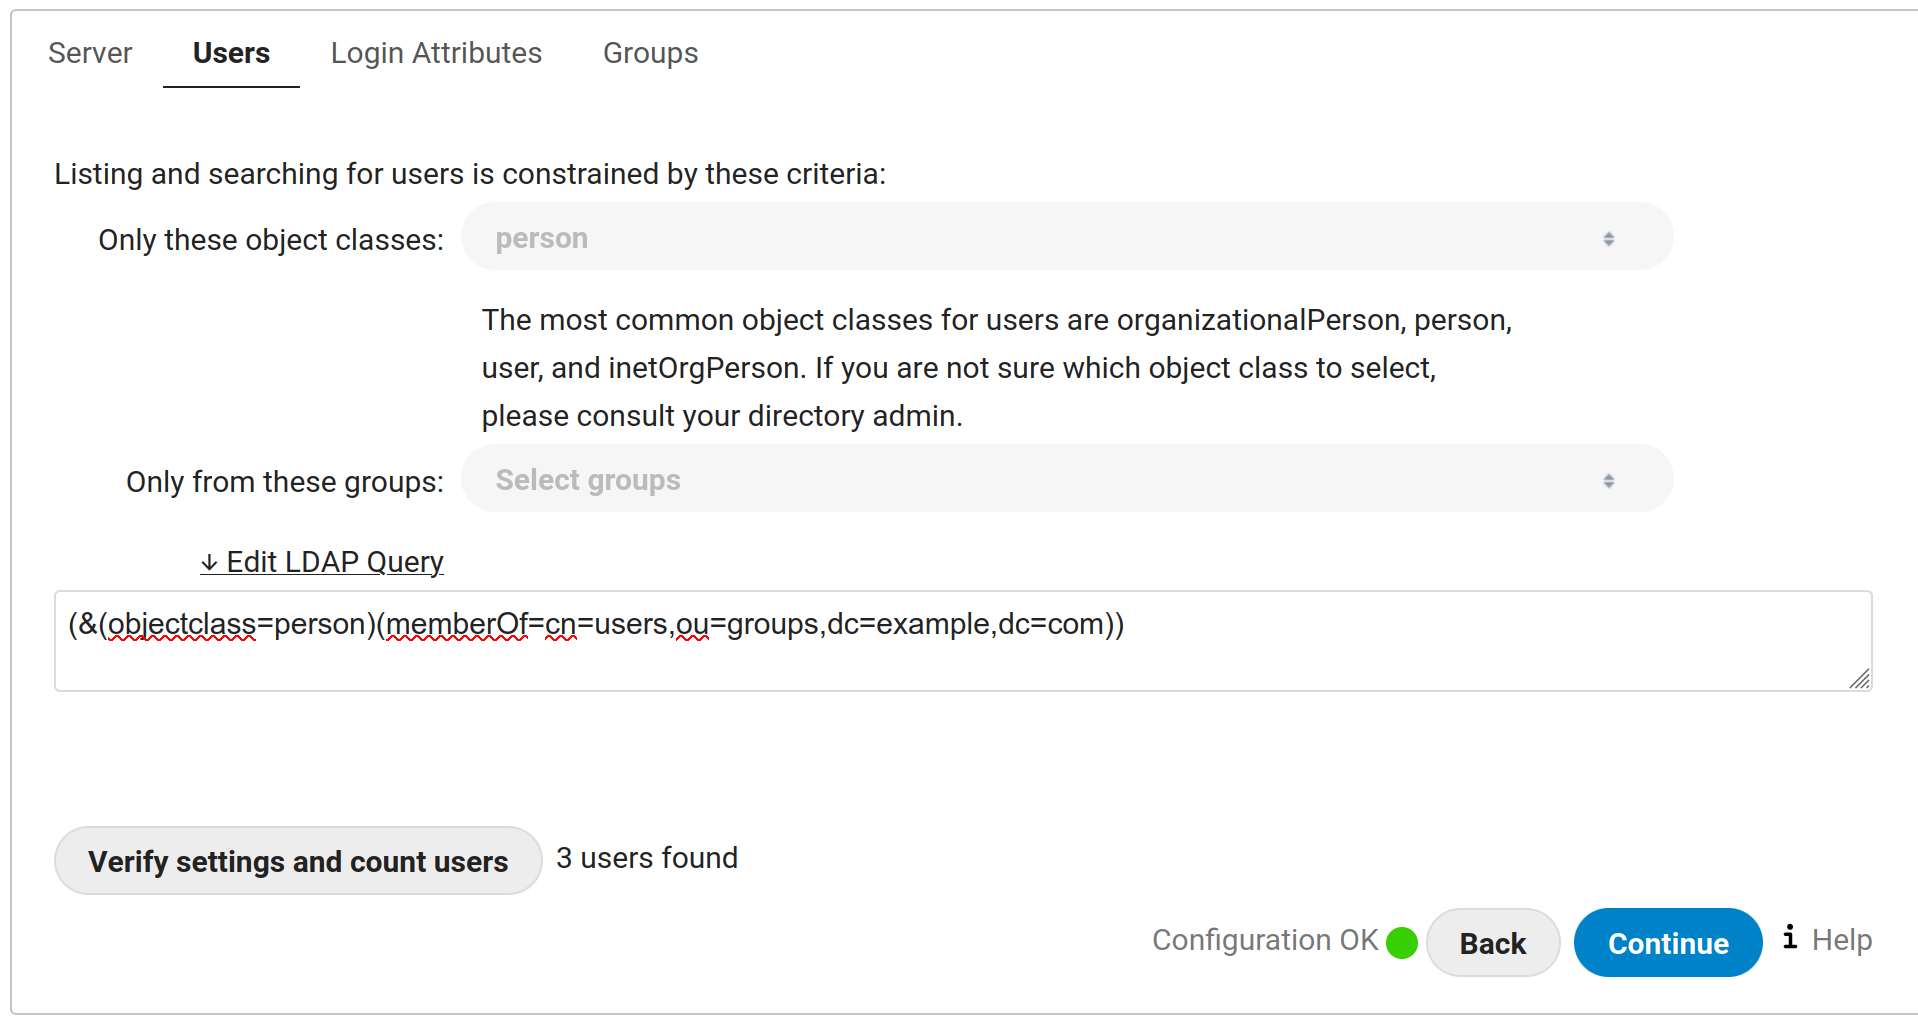
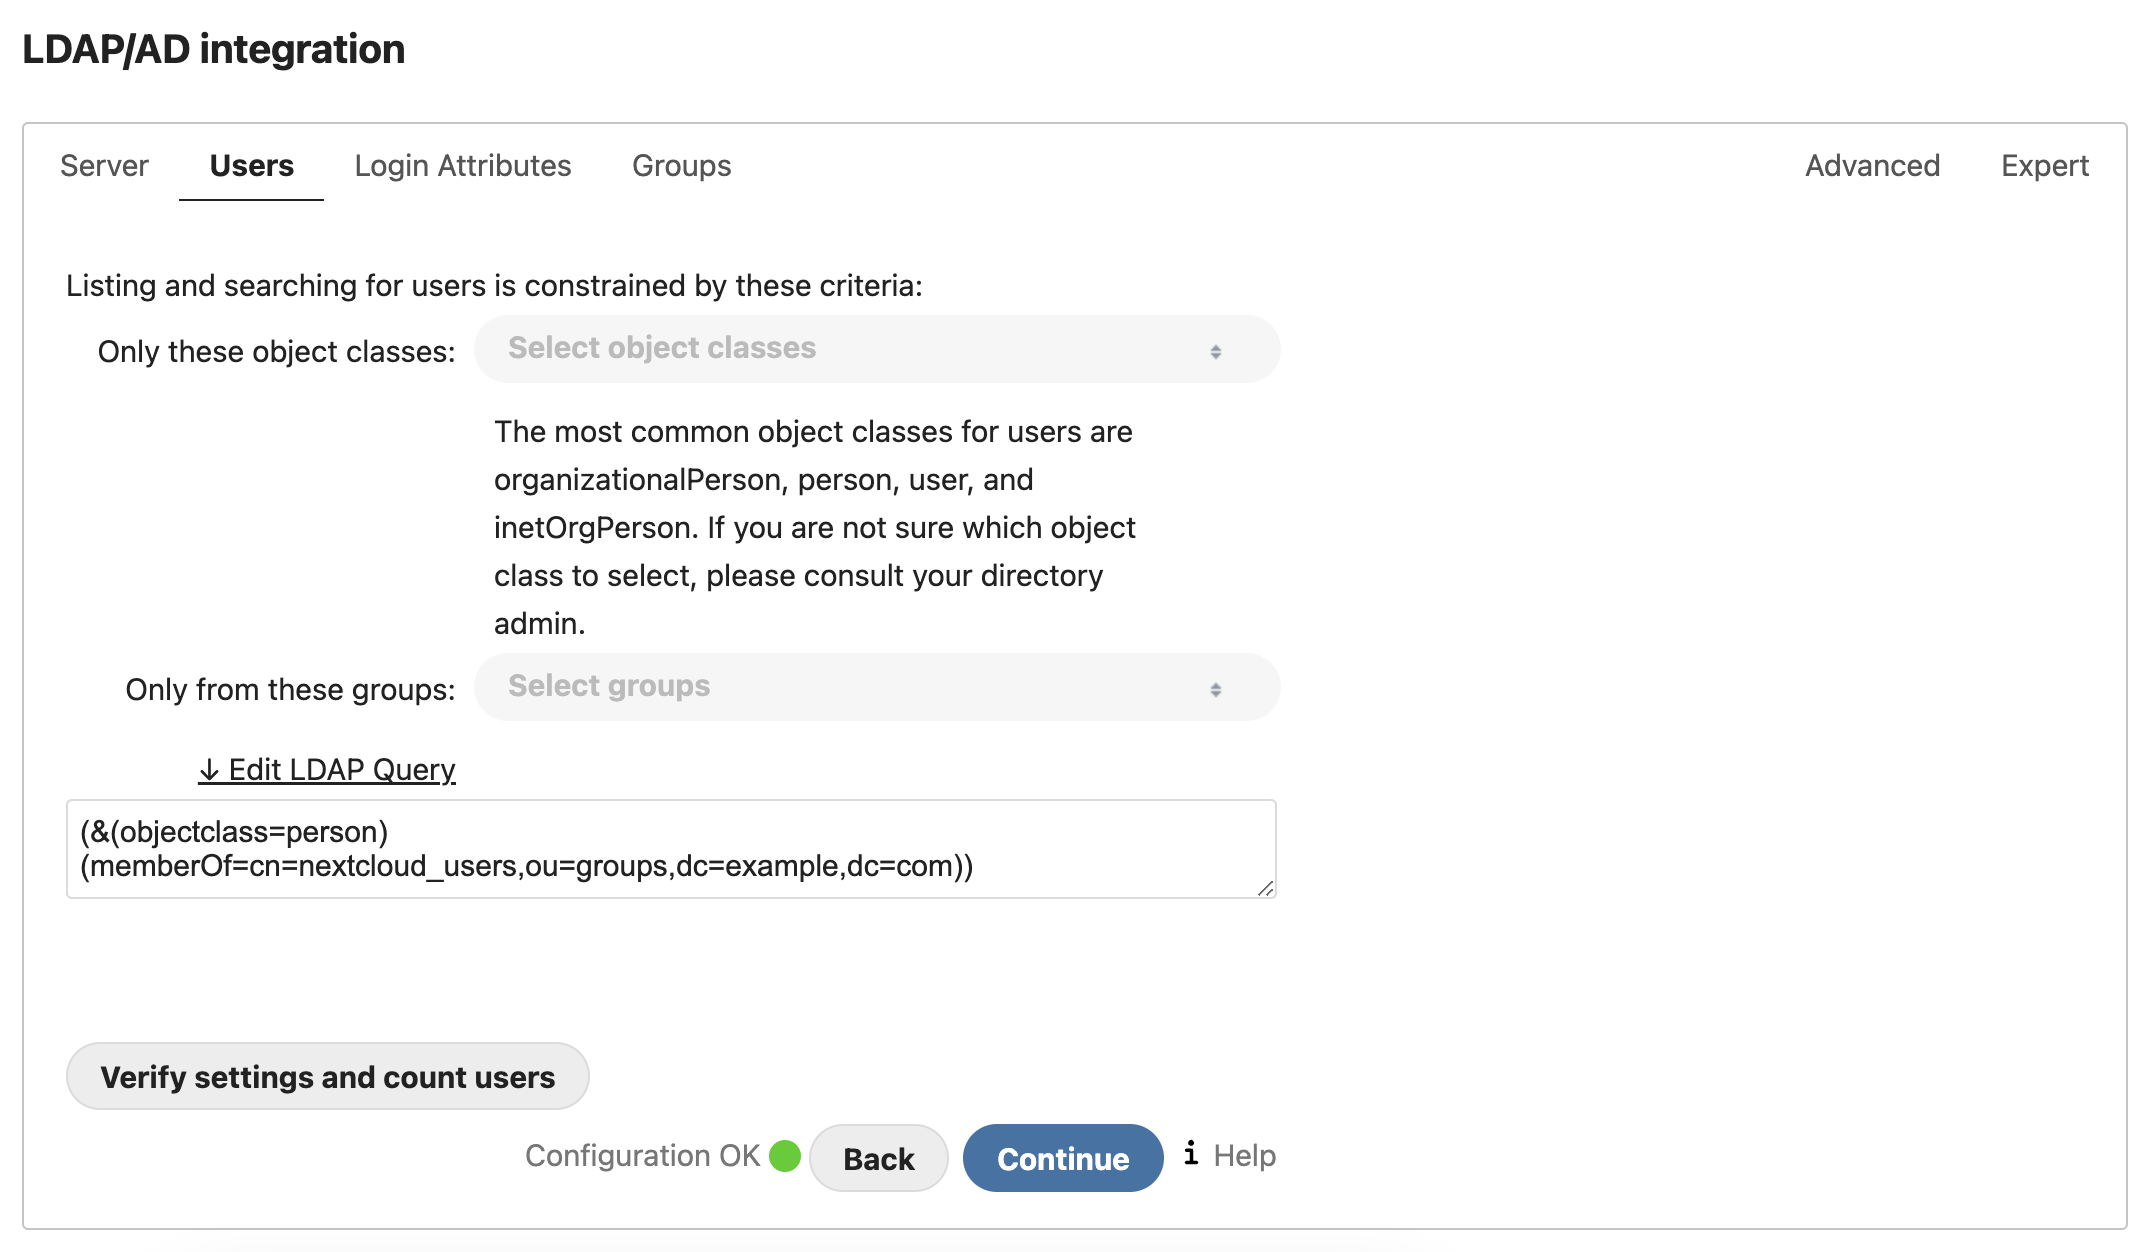
Updated screenshots, backtick formatting, added assumptions section, users > nextcloud_users, clarity to certain sections.

diff --git a/example_configs/nextcloud_oidc_authelia.md b/example_configs/nextcloud_oidc_authelia.md
@@ -1,25 +1,30 @@
+## Assumptions
+
+If you're here, there are some assumptions being made about access and capabilities you have on your system:
+1. You have Authelia up and running, understand its functionality, and have read through the documentation. 
+2. You have [LLDAP](https://github.com/nitnelave/lldap) up and running. 
+3. You have Nextcloud and LLDAP communicating and without any config errors. See the [example config for Nextcloud](example_configs/nextcloud.md)
+
 ## Authelia
 
-Set up Authelia according to it's [documentation](https://www.authelia.com/overview/prologue/introduction/), including the [OpenID Connect](https://www.authelia.com/configuration/identity-providers/open-id-connect/) and [Nextcloud instructions](https://www.authelia.com/integration/openid-connect/nextcloud/).
+Set up Authelia according to its [documentation](https://www.authelia.com/overview/prologue/introduction/), including the [OpenID Connect](https://www.authelia.com/configuration/identity-providers/open-id-connect/) and [Nextcloud instructions](https://www.authelia.com/integration/openid-connect/nextcloud/).
 
 ## LLDAP
 
-Set up [LLDAP](https://github.com/nitnelave/lldap) according to its standard documentation. 
-
-Add a group and note the name you use. For this tutorial, we're using the group `users`. Create a new user and add it to the `nextcloud_users` group. 
+With LLDAP up and running, add a group and note the name you use. For this tutorial, we're using the group `nextcloud_users`. Create a new user and add it to the `nextcloud_users` group. 
 
 #### Optional:
-Once setup, add an admin or config user and add to the `lldap_strict_readonly` group. This will be the config account used for Nextcloud to read your groups and users from the server. 
+Once setup, add an admin or config user and add to the `lldap_strict_readonly` or `lldap_password_manager` group. This will be the config account used for Nextcloud to read your groups and users from the server. 
 
 ## Nextcloud
 **_When we get to the OpenID section, we will be using the same defaults as Authelia's documentation. As a reminder, they are:_** 
 
 * **Application Root URL:** https://nextcloud.example.com
 * **Authelia Root URL:** https://auth.example.com
-* **Client ID:** nextcloud
-* **Client Secret:** nextcloud_client_secret
+* [**Client ID:**](https://www.authelia.com/configuration/identity-providers/open-id-connect/#id) nextcloud
+* [**Client Secret:**](https://www.authelia.com/configuration/identity-providers/open-id-connect/#secret) nextcloud_client_secret
 
-Login to your Nextcloud instance as an admin. Setup an LDAP server connection according to [LLDAP's Documentation](https://github.com/nitnelave/lldap/blob/main/example_configs/nextcloud.md). Once your configuration is setup and Nextcloud doesn't show any errors, you can move onto the next step. It's also a good idea to test this by logging into your Nextcloud instance with your LLDAP credentials. OpenID Connect won't work if you don't first have this working. 
+Login to your Nextcloud instance as an admin. By now, you should have correctly setup Nextcloud and LLDAP to be communicating and working as expected. [See assumptions, above](#assumptions)
 
 Next, navigate to the `Apps` section. 
 
@@ -33,14 +38,13 @@ You'll see many different options for various auth methods, including major 3rd 
 * Allow Users to Connect Social Logins with their Account
 * Prevent creating an account if the email address exists in another account
 * Update user profile every login
-    
-![nextcloud_sociallogin_checkboxes.png](images/nextcloud_sociallogin_checkboxes.png)
+![nextcloud_sociallogin_checkboxes](images/nextcloud_sociallogin_checkboxes.png)
 
 _You can test out the other options such as preventing users without a group, but I haven't tested all the options. These are just the ones I know that worked so far._
 
 Scroll down and select **Custom OpenID Connect**. Fill out the following options:
 
-_The first two can be any string you'd like to identify the connection with. Note that Title is the string that will show up on the button at the login screen._
+_The first two can be any string you'd like to identify the connection with. The Title is the string that will show up on the button at the login screen and the Internal Name will be used in the Redirect uri. [See point 3 in the section below](#some-notes)._
 
 | Field | Value |
 |--|--|
@@ -56,12 +60,16 @@ _The first two can be any string you'd like to identify the connection with. Not
 |Scope: | openid profile email groups |
 |Groups Claim (Optional) | 	| 			
 |Button Style | None |
-|Default Group	| users | 
+|Default Group	| nextcloud_users | 
 
 #### Some Notes
-* The *scope* should be the same as the scope that was setup in Authelia.
-* *_Do not_* use commas in the scope! This caused many issues for me.
-* If you've setup LDAP correctly in nextcloud, the last dropdown for _Default Group_ should show you the group you setup in LLDAP. In this example, that group is called users.
+* The *scope* should be the same as the scope that was setup in [Authelia's OpenID Integration](https://www.authelia.com/integration/openid-connect/nextcloud/#authelia). Here's an example from Authelia:
+![Authelia OpenID Config](images/authelia_openid_config.png)
+* *_Do not_* use commas in the Nextcloud Social Login app scope! This caused many issues for me.
+* Be sure you update your Authelia `configuration.yml`. Specifically, the line: `redirect_uris`. The new URL should be 
+`https://auth.example.com/index.php/apps/sociallogin/custom_oidc/Authelia`. 
+    * The final field in the URL (Authelia) needs to be the same value you used in the Social Login "Internal Name" field. 
+* If you've setup LLDAP correctly in nextcloud, the last dropdown for _Default Group_ should show you the `nextcloud_users` group you setup in LLDAP. 
 
 Once you've filled out the fields correctly, scroll to the bottom and hit save and confirm that you don't recieve any errors from Nextcloud. 
 
@@ -73,9 +81,7 @@ If this is set to *false* your login screen will show the standard User/Email an
 
 If this is set to *true* then the user flow will _skip_ the login page and automatically bring you to the Authelia Consent Page at `https://auth.example.com/consent?consent_id=alphanuber-uuid-string`
 
-
 ### Conclusion
 And that's it! Assuming all the settings that worked for me, work for you, you should be able to login using OpenID Connect via Authelia. If you find any errors, it's a good idea to keep a document of all your settings from Authelia/Nextcloud/LLDAP etc so that you can easily reference and ensure everything lines up.
 
-Please comment here if you face any issues and we can test out other settings. 
-
+If you have any issues, please create a [discussion](https://github.com/nitnelave/lldap/discussions) or join the [Discord](https://discord.gg/h5PEdRMNyP).

diff --git a/example_configs/nextcloud.md b/example_configs/nextcloud.md
@@ -5,24 +5,22 @@
 This example is using following users & groups in lldap :
 
 * A technical user (ex: `ro_admin`), member of `lldap_strict_readonly` or `lldap_password_manager`
-* A catch-all group called `nextcloud_users`. Note: This is _not_ the same as the `Users` designation in the LLDAP Web UI. This must be a whole new group that you've created and called `nextcloud_users`. 
+* A catch-all group called `nextcloud_users`.
 * Members of `nextcloud_users` group will be authorized to log in Nextcloud.
 * Some "application" groups, let's say `friends` and `family`: users in Nextcloud will be able to share files and view people in dynamic lists only to members of their own group(s).
-* Users in 'family' and 'friends' should also be users in 'nextcloud_users' group!  
+* Users in `family` and `friends` should also be users in `nextcloud_users` group!  
 
 If you plan on following this tutorial line-by-line, you will now have the following:
 * 6 groups:
-    1. `users`
+    1. `nextcloud_users`
     2. `family`
     3. `friends`
     4. `lldap_strict_readonly`
     5. `lldap_password_manager`
-    6. 'lldap_admin'
-    7. `admin`
-* 1 admin user in one or both of the following groups:
+    6. `admin`
+* 1 admin user in any of the following groups:
     1. `lldap_password_manager`
     2. `lldap_strict_readonly`
-    3. `lldap_admin`
 * (Atleast) 1 user in the `nextcloud_users` group 
 * (Optional) Any number of users in the `friends` or `family` group.
 
@@ -76,7 +74,7 @@ occ ldap:set-config s01 ldapUserFilterMode 1
 occ ldap:set-config s01 ldapUuidGroupAttribute auto
 occ ldap:set-config s01 ldapUuidUserAttribute auto
 ```
-With small amount of luck, you should be able to log in your nextcloud instance with LLDAP accounts in the `users` group.
+With a bit of of luck, you should be able to log in your nextcloud instance with LLDAP accounts in the `nextcloud_users` group.
 
 ## Nextcloud config : the GUI way
 
@@ -93,9 +91,9 @@ Fill the LLDAP domain and port, DN + password of your technical account and base
 ### Users tab
 
 Select `person` as object class and then choose `Edit LDAP Query` : the `only from these groups` option is not functional.
-We want only users from the `users` group to be allowed to log in Nextcloud :
+We want only users from the `nextcloud_users` group to be allowed to log in Nextcloud :
 ```
-(&(objectclass=person)(memberOf=cn=users,ou=groups,dc=example,dc=com))
+(&(objectclass=person)(memberOf=cn=nextcloud_users,ou=groups,dc=example,dc=com))
 ```
 
 ![login configuration page](images/nextcloud_loginfilter.png)
@@ -117,12 +115,10 @@ You can use the menus for this part : select `groupOfUniqueNames` in the first m
 
 ![groups configuration page](images/nextcloud_groups.png)
 
-The resulting LDAP filter could be simplified removing the first 'OR' condition (I think).
 ## Sharing restrictions
 
 Go to Settings > Administration > Sharing and check following boxes :
 
 *  "Allow username autocompletion to users within the same groups"
-*  "Restrict users to only share with users in their groups"
 
 ![sharing options](images/nextcloud_sharing_options.png)
